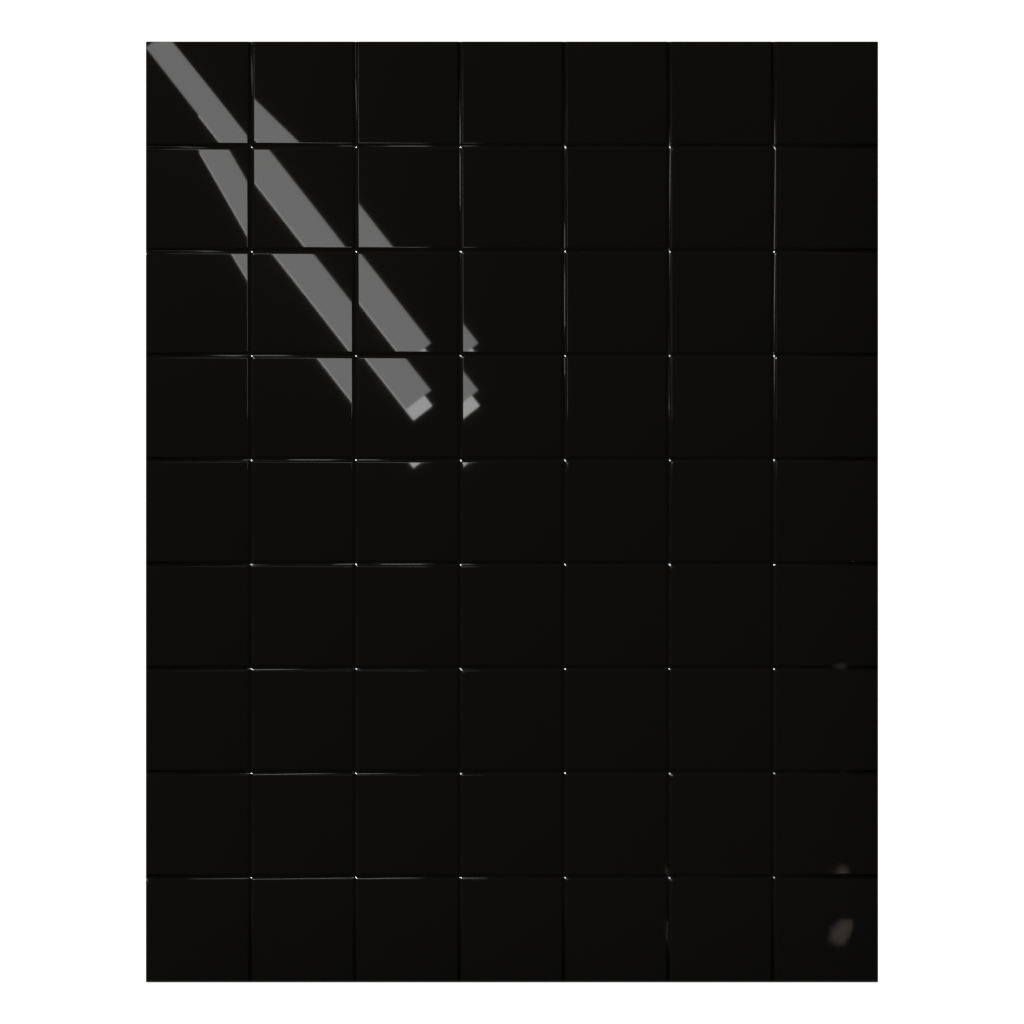
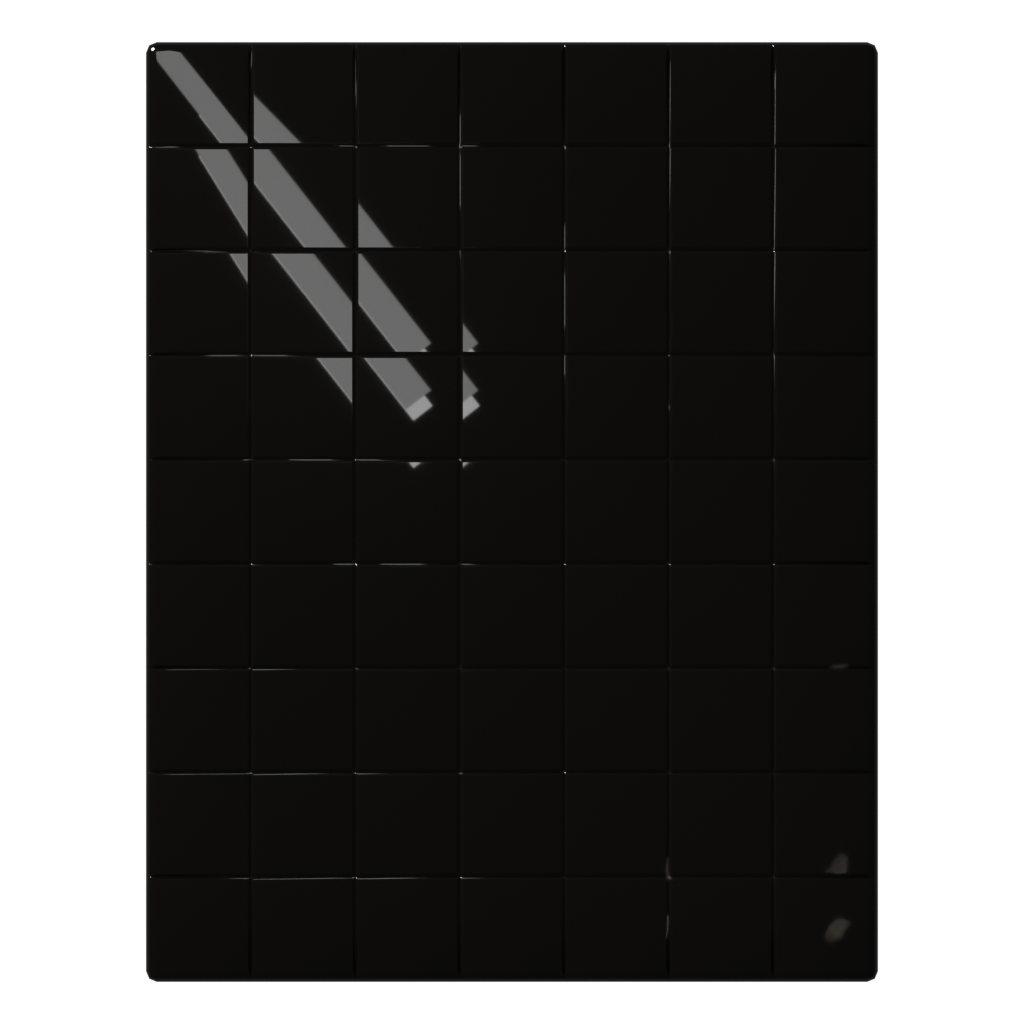
Chamfer the sheet's edge, and let more of the room through
The board's outer edge was square, which turns its face away from
every light and stays black. A chamfer is a third surface at its own
angle, so the streaks and the sun catch it and the sheet gets a lit
rim - which is most of what says the glass has thickness.

Cut before the grooves, so it belongs to the slab rather than to each
cell: applied afterwards the same width rounded every square into its
own tile.

Alpha down from 0.95 to 0.78 as well. The drawn pane sat at 0.95, but
it was a flat fill - the render carries shading and a specular on top,
which reads as more substance at the same number.

Changed region(s): [[0.125, 0.0312, 0.1875, 0.0625], [0.25, 0.0938, 0.2812, 0.125]]

diff --git a/src/game/scenes/board/config.ts b/src/game/scenes/board/config.ts
@@ -390,8 +390,15 @@ export const SOURCE_TEXTURE_PX = potTextureSize(96);
  */
 export const BOARD_ART_FRAME = 9.8;
 export const BOARD_ART_TILT = 3;
-/** How solid the sheet is. The drawn pane it replaced sat at 0.95. */
-export const BOARD_ART_ALPHA = 0.95;
+/**
+ * How solid the sheet is.
+ *
+ * The drawn pane sat at 0.95, but it was a flat fill - the render
+ * carries its own shading and specular on top, which reads as more
+ * substance at the same alpha. Lower, so the room behind shows
+ * through as much as it used to.
+ */
+export const BOARD_ART_ALPHA = 0.78;
 
 /**
  * How many source tiers each building family has.

diff --git a/src/game/objects/itemSprites.ts b/src/game/objects/itemSprites.ts
@@ -135,7 +135,7 @@ export function itemSpriteKey(typeId: string, tier: number): string {
  * A version in the query string makes the URL new, so every client refetches
  * once and then caches again normally.
  */
-export const ITEM_ART_VERSION = 46;
+export const ITEM_ART_VERSION = 47;
 
 /** Where the renderer writes it, relative to `public/`. */
 export function itemSpritePath(typeId: string, tier: number): string {

diff --git a/tools/blender/render_items.py b/tools/blender/render_items.py
@@ -3134,6 +3134,8 @@ BOARD_GLASS = 0x0f0d0b
 BOARD_SCORE_DEPTH = 0.030
 BOARD_SCORE_WIDTH = 0.034
 BOARD_THICKNESS = 0.22
+# How wide the sheet's own edge is chamfered, in cells.
+BOARD_CHAMFER = 0.10
 
 
 def board_glass_material():
@@ -3185,6 +3187,19 @@ def build_board_slab():
     lit side and a shadowed side.
     """
     body = cube(BOARD_COLS, BOARD_ROWS, BOARD_THICKNESS, base=False)
+
+    # A CHAMFER ROUND THE SHEET, cut before the grooves so it belongs
+    # to the slab rather than to every cell. A square edge turns its
+    # face away from everything and stays black; a chamfer is a third
+    # surface at its own angle, so the streaks and the sun catch it and
+    # the board gets a lit rim - which is most of what says the glass
+    # has thickness.
+    chamfer = body.modifiers.new("chamfer", 'BEVEL')
+    chamfer.width = BOARD_CHAMFER
+    chamfer.segments = 2
+    chamfer.limit_method = 'ANGLE'
+    bpy.context.view_layer.objects.active = body
+    bpy.ops.object.modifier_apply(modifier=chamfer.name)
 
     reach = BOARD_SCORE_WIDTH * math.sqrt(2)
     top = BOARD_THICKNESS / 2
